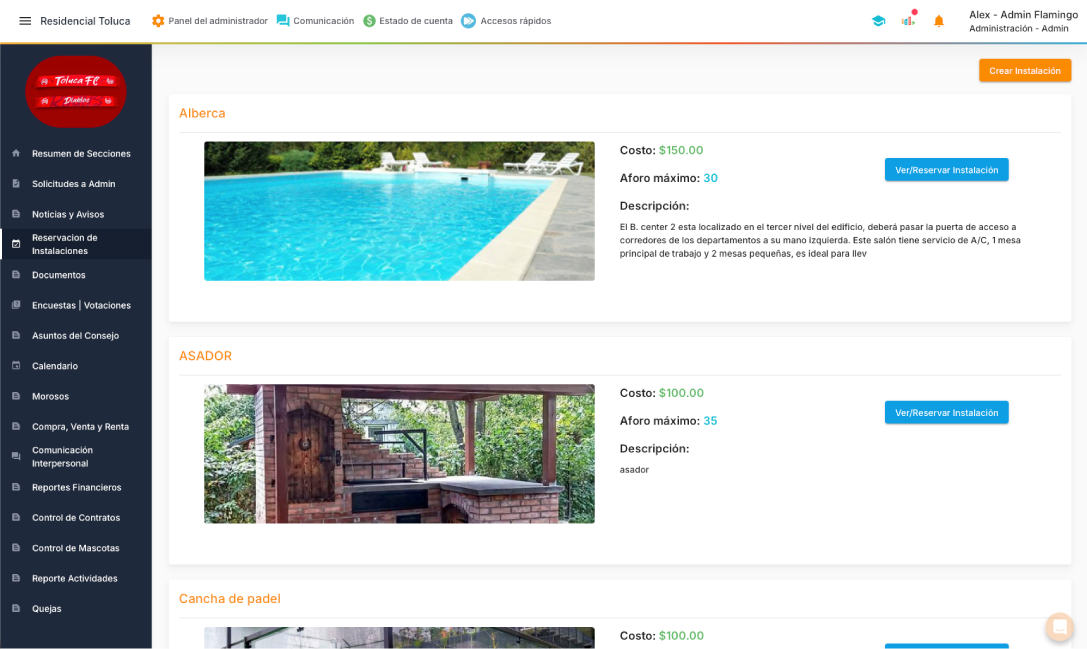
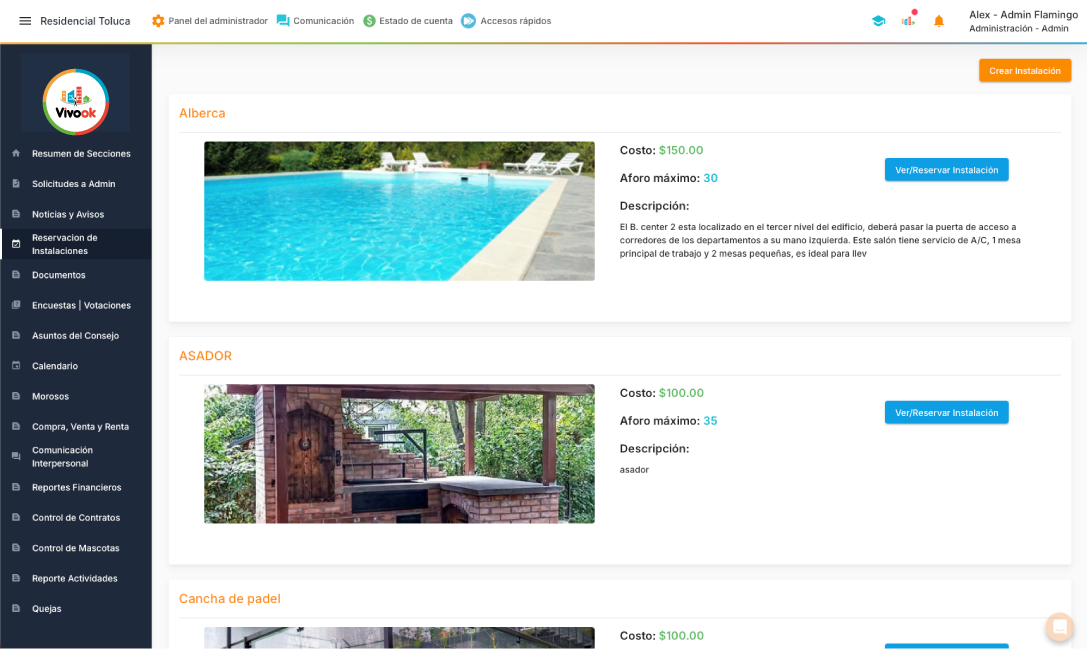
Home hero: nueva imagen index-hero.png sin frame, plana y más grande
- index.html: la imagen del hero ahora es index-hero.png (laptop + mobile
  juntos) y ya no va dentro del browser-frame.
- styles.css: .hero__mockup crece (54% / 720px máx vs 46% / 560px) y
  .hero__mockup-img queda plana — sin tilt 3D, sin sombra, sin radius.
- Asset intalaciones-hero.png re-exportado (cambio menor de tamaño).
- Cache busting v=102 → v=104.

Changed region(s): [[0.0, 0.0616, 0.1214, 0.2157]]

diff --git a/index.html b/index.html
@@ -8,7 +8,7 @@
   <link rel="preconnect" href="https://fonts.googleapis.com" />
   <link rel="preconnect" href="https://fonts.gstatic.com" crossorigin />
   <link href="https://fonts.googleapis.com/css2?family=Inter:wght@400;500;600;700&family=Manrope:wght@600;700;800&display=swap" rel="stylesheet" />
-  <link rel="stylesheet" href="styles.css?v=102" />
+  <link rel="stylesheet" href="styles.css?v=104" />
   <link rel="canonical" href="https://www.vivook.com/" />
   <meta property="og:url" content="https://www.vivook.com/" />
   <meta property="og:type" content="website" />
@@ -169,17 +169,9 @@
       </div>
     </div>
 
-    <!-- Mockup del producto -->
+    <!-- Mockup del producto (imagen sin frame) -->
     <div class="hero__mockup" aria-hidden="true">
-      <div class="browser-frame">
-        <div class="browser-frame__bar">
-          <span class="browser-frame__dots"><span></span><span></span><span></span></span>
-          <span class="browser-frame__url">webapp.vivook.com</span>
-        </div>
-        <div class="browser-frame__body">
-          <img src="assets/consolidado-hero.png" alt="" width="1200" height="663" />
-        </div>
-      </div>
+      <img src="assets/index-hero.png" alt="" width="1530" height="812" class="hero__mockup-img" />
     </div>
     </div>
   </section>
@@ -778,7 +770,7 @@
     <svg class="sticky-cta__icon" aria-hidden="true"><use href="assets/icons.svg#buildings"/></svg>
   </a>
 
-  <script src="script.js?v=102" defer></script>
+  <script src="script.js?v=104" defer></script>
   <!-- Boton flotante de WhatsApp -->
   <a href="https://wa.me/message/7OT53LROGZRCI1" class="wa-float" target="_blank" rel="noopener" aria-label="Chatea con nosotros por WhatsApp">
     <svg class="wa-float__icon" aria-hidden="true"><use href="assets/icons.svg#whatsapp"/></svg>

diff --git a/styles.css b/styles.css
@@ -358,20 +358,15 @@ button { font: inherit; cursor: pointer; }
   right: 0;
   top: 50%;
   transform: translateY(-50%);
-  width: 46%;
-  max-width: 560px;
+  width: 54%;
+  max-width: 720px;
   z-index: 2;
   pointer-events: none;
 }
 .hero__mockup-img {
   width: 100%;
   height: auto;
-  border-radius: 14px;
-  box-shadow:
-    0 40px 100px -16px rgba(0, 0, 0, .65),
-    0 0 0 1px rgba(255, 255, 255, .06);
-  transform: perspective(1600px) rotateY(-12deg) rotateX(3deg);
-  transform-origin: center;
+  display: block;
 }
 .hero__mockup-badge {
   position: absolute;

diff --git a/academia.html b/academia.html
@@ -11,7 +11,7 @@
   <link rel="preconnect" href="https://fonts.googleapis.com" />
   <link rel="preconnect" href="https://fonts.gstatic.com" crossorigin />
   <link href="https://fonts.googleapis.com/css2?family=Inter:wght@400;500;600;700&family=Manrope:wght@600;700;800&display=swap" rel="stylesheet" />
-  <link rel="stylesheet" href="styles.css?v=102" />
+  <link rel="stylesheet" href="styles.css?v=104" />
   <link rel="canonical" href="https://www.vivook.com/academia.html" />
   <meta property="og:url" content="https://www.vivook.com/academia.html" />
   <meta property="og:site_name" content="Vivook" />
@@ -473,7 +473,7 @@
     <svg class="sticky-cta__icon" aria-hidden="true"><use href="assets/icons.svg#buildings"/></svg>
   </a>
 
-  <script src="script.js?v=102" defer></script>
+  <script src="script.js?v=104" defer></script>
   <!-- Boton flotante de WhatsApp -->
   <a href="https://wa.me/message/7OT53LROGZRCI1" class="wa-float" target="_blank" rel="noopener" aria-label="Chatea con nosotros por WhatsApp">
     <svg class="wa-float__icon" aria-hidden="true"><use href="assets/icons.svg#whatsapp"/></svg>

diff --git a/administrativo.html b/administrativo.html
@@ -11,7 +11,7 @@
   <link rel="preconnect" href="https://fonts.googleapis.com" />
   <link rel="preconnect" href="https://fonts.gstatic.com" crossorigin />
   <link href="https://fonts.googleapis.com/css2?family=Inter:wght@400;500;600;700&family=Manrope:wght@600;700;800&display=swap" rel="stylesheet" />
-  <link rel="stylesheet" href="styles.css?v=102" />
+  <link rel="stylesheet" href="styles.css?v=104" />
   <link rel="canonical" href="https://www.vivook.com/administrativo.html" />
   <meta property="og:url" content="https://www.vivook.com/administrativo.html" />
   <meta property="og:site_name" content="Vivook" />
@@ -435,7 +435,7 @@
     <svg class="sticky-cta__icon" aria-hidden="true"><use href="assets/icons.svg#buildings"/></svg>
   </a>
 
-  <script src="script.js?v=102" defer></script>
+  <script src="script.js?v=104" defer></script>
   <!-- Boton flotante de WhatsApp -->
   <a href="https://wa.me/message/7OT53LROGZRCI1" class="wa-float" target="_blank" rel="noopener" aria-label="Chatea con nosotros por WhatsApp">
     <svg class="wa-float__icon" aria-hidden="true"><use href="assets/icons.svg#whatsapp"/></svg>

diff --git a/capacitaciones.html b/capacitaciones.html
@@ -11,7 +11,7 @@
   <link rel="preconnect" href="https://fonts.googleapis.com" />
   <link rel="preconnect" href="https://fonts.gstatic.com" crossorigin />
   <link href="https://fonts.googleapis.com/css2?family=Inter:wght@400;500;600;700&family=Manrope:wght@600;700;800&display=swap" rel="stylesheet" />
-  <link rel="stylesheet" href="styles.css?v=102" />
+  <link rel="stylesheet" href="styles.css?v=104" />
   <link rel="canonical" href="https://www.vivook.com/capacitaciones.html" />
   <meta property="og:url" content="https://www.vivook.com/capacitaciones.html" />
   <meta property="og:site_name" content="Vivook" />
@@ -371,7 +371,7 @@
     <svg class="sticky-cta__icon" aria-hidden="true"><use href="assets/icons.svg#buildings"/></svg>
   </a>
 
-  <script src="script.js?v=102" defer></script>
+  <script src="script.js?v=104" defer></script>
   <!-- Boton flotante de WhatsApp -->
   <a href="https://wa.me/message/7OT53LROGZRCI1" class="wa-float" target="_blank" rel="noopener" aria-label="Chatea con nosotros por WhatsApp">
     <svg class="wa-float__icon" aria-hidden="true"><use href="assets/icons.svg#whatsapp"/></svg>

diff --git a/caracteristicas.html b/caracteristicas.html
@@ -11,7 +11,7 @@
   <link rel="preconnect" href="https://fonts.googleapis.com" />
   <link rel="preconnect" href="https://fonts.gstatic.com" crossorigin />
   <link href="https://fonts.googleapis.com/css2?family=Inter:wght@400;500;600;700&family=Manrope:wght@600;700;800&display=swap" rel="stylesheet" />
-  <link rel="stylesheet" href="styles.css?v=102" />
+  <link rel="stylesheet" href="styles.css?v=104" />
   <link rel="canonical" href="https://www.vivook.com/caracteristicas.html" />
   <meta property="og:url" content="https://www.vivook.com/caracteristicas.html" />
   <meta property="og:site_name" content="Vivook" />
@@ -397,7 +397,7 @@
     <svg class="sticky-cta__icon" aria-hidden="true"><use href="assets/icons.svg#buildings"/></svg>
   </a>
 
-  <script src="script.js?v=102" defer></script>
+  <script src="script.js?v=104" defer></script>
   <!-- Boton flotante de WhatsApp -->
   <a href="https://wa.me/message/7OT53LROGZRCI1" class="wa-float" target="_blank" rel="noopener" aria-label="Chatea con nosotros por WhatsApp">
     <svg class="wa-float__icon" aria-hidden="true"><use href="assets/icons.svg#whatsapp"/></svg>

diff --git a/comunicacion.html b/comunicacion.html
@@ -11,7 +11,7 @@
   <link rel="preconnect" href="https://fonts.googleapis.com" />
   <link rel="preconnect" href="https://fonts.gstatic.com" crossorigin />
   <link href="https://fonts.googleapis.com/css2?family=Inter:wght@400;500;600;700&family=Manrope:wght@600;700;800&display=swap" rel="stylesheet" />
-  <link rel="stylesheet" href="styles.css?v=102" />
+  <link rel="stylesheet" href="styles.css?v=104" />
   <link rel="canonical" href="https://www.vivook.com/comunicacion.html" />
   <meta property="og:url" content="https://www.vivook.com/comunicacion.html" />
   <meta property="og:site_name" content="Vivook" />
@@ -409,7 +409,7 @@
     <svg class="sticky-cta__icon" aria-hidden="true"><use href="assets/icons.svg#buildings"/></svg>
   </a>
 
-  <script src="script.js?v=102" defer></script>
+  <script src="script.js?v=104" defer></script>
   <!-- Boton flotante de WhatsApp -->
   <a href="https://wa.me/message/7OT53LROGZRCI1" class="wa-float" target="_blank" rel="noopener" aria-label="Chatea con nosotros por WhatsApp">
     <svg class="wa-float__icon" aria-hidden="true"><use href="assets/icons.svg#whatsapp"/></svg>

diff --git a/contacto.html b/contacto.html
@@ -11,7 +11,7 @@
   <link rel="preconnect" href="https://fonts.googleapis.com" />
   <link rel="preconnect" href="https://fonts.gstatic.com" crossorigin />
   <link href="https://fonts.googleapis.com/css2?family=Inter:wght@400;500;600;700&family=Manrope:wght@600;700;800&display=swap" rel="stylesheet" />
-  <link rel="stylesheet" href="styles.css?v=102" />
+  <link rel="stylesheet" href="styles.css?v=104" />
   <link rel="canonical" href="https://www.vivook.com/contacto.html" />
   <meta property="og:url" content="https://www.vivook.com/contacto.html" />
   <meta property="og:site_name" content="Vivook" />
@@ -321,7 +321,7 @@
     <svg class="sticky-cta__icon" aria-hidden="true"><use href="assets/icons.svg#buildings"/></svg>
   </a>
 
-  <script src="script.js?v=102" defer></script>
+  <script src="script.js?v=104" defer></script>
   <!-- Boton flotante de WhatsApp -->
   <a href="https://wa.me/message/7OT53LROGZRCI1" class="wa-float" target="_blank" rel="noopener" aria-label="Chatea con nosotros por WhatsApp">
     <svg class="wa-float__icon" aria-hidden="true"><use href="assets/icons.svg#whatsapp"/></svg>

diff --git a/diferenciador.html b/diferenciador.html
@@ -11,7 +11,7 @@
   <link rel="preconnect" href="https://fonts.googleapis.com" />
   <link rel="preconnect" href="https://fonts.gstatic.com" crossorigin />
   <link href="https://fonts.googleapis.com/css2?family=Inter:wght@400;500;600;700&family=Manrope:wght@600;700;800&display=swap" rel="stylesheet" />
-  <link rel="stylesheet" href="styles.css?v=102" />
+  <link rel="stylesheet" href="styles.css?v=104" />
   <link rel="canonical" href="https://www.vivook.com/diferenciador.html" />
   <meta property="og:url" content="https://www.vivook.com/diferenciador.html" />
   <meta property="og:site_name" content="Vivook" />
@@ -538,7 +538,7 @@
     <svg class="sticky-cta__icon" aria-hidden="true"><use href="assets/icons.svg#buildings"/></svg>
   </a>
 
-  <script src="script.js?v=102" defer></script>
+  <script src="script.js?v=104" defer></script>
   <!-- Boton flotante de WhatsApp -->
   <a href="https://wa.me/message/7OT53LROGZRCI1" class="wa-float" target="_blank" rel="noopener" aria-label="Chatea con nosotros por WhatsApp">
     <svg class="wa-float__icon" aria-hidden="true"><use href="assets/icons.svg#whatsapp"/></svg>

diff --git a/facturacion.html b/facturacion.html
@@ -11,7 +11,7 @@
   <link rel="preconnect" href="https://fonts.googleapis.com" />
   <link rel="preconnect" href="https://fonts.gstatic.com" crossorigin />
   <link href="https://fonts.googleapis.com/css2?family=Inter:wght@400;500;600;700&family=Manrope:wght@600;700;800&display=swap" rel="stylesheet" />
-  <link rel="stylesheet" href="styles.css?v=102" />
+  <link rel="stylesheet" href="styles.css?v=104" />
   <link rel="canonical" href="https://www.vivook.com/facturacion.html" />
   <meta property="og:url" content="https://www.vivook.com/facturacion.html" />
   <meta property="og:site_name" content="Vivook" />
@@ -446,7 +446,7 @@
     <svg class="sticky-cta__icon" aria-hidden="true"><use href="assets/icons.svg#buildings"/></svg>
   </a>
 
-  <script src="script.js?v=102" defer></script>
+  <script src="script.js?v=104" defer></script>
   <!-- Boton flotante de WhatsApp -->
   <a href="https://wa.me/message/7OT53LROGZRCI1" class="wa-float" target="_blank" rel="noopener" aria-label="Chatea con nosotros por WhatsApp">
     <svg class="wa-float__icon" aria-hidden="true"><use href="assets/icons.svg#whatsapp"/></svg>

diff --git a/landing.html b/landing.html
@@ -8,7 +8,7 @@
   <link rel="preconnect" href="https://fonts.googleapis.com" />
   <link rel="preconnect" href="https://fonts.gstatic.com" crossorigin />
   <link href="https://fonts.googleapis.com/css2?family=Inter:wght@400;500;600;700&family=Manrope:wght@600;700;800&display=swap" rel="stylesheet" />
-  <link rel="stylesheet" href="styles.css?v=102" />
+  <link rel="stylesheet" href="styles.css?v=104" />
   <link rel="canonical" href="https://www.vivook.com/landing.html" />
   <meta property="og:url" content="https://www.vivook.com/landing.html" />
   <meta property="og:type" content="website" />
@@ -582,7 +582,7 @@
     <svg class="sticky-cta__icon" aria-hidden="true"><use href="assets/icons.svg#buildings"/></svg>
   </a>
 
-  <script src="script.js?v=102" defer></script>
+  <script src="script.js?v=104" defer></script>
   <!-- Boton flotante de WhatsApp -->
   <a href="https://wa.me/message/7OT53LROGZRCI1" class="wa-float" target="_blank" rel="noopener" aria-label="Chatea con nosotros por WhatsApp">
     <svg class="wa-float__icon" aria-hidden="true"><use href="assets/icons.svg#whatsapp"/></svg>

diff --git a/pagos.html b/pagos.html
@@ -11,7 +11,7 @@
   <link rel="preconnect" href="https://fonts.googleapis.com" />
   <link rel="preconnect" href="https://fonts.gstatic.com" crossorigin />
   <link href="https://fonts.googleapis.com/css2?family=Inter:wght@400;500;600;700&family=Manrope:wght@600;700;800&display=swap" rel="stylesheet" />
-  <link rel="stylesheet" href="styles.css?v=102" />
+  <link rel="stylesheet" href="styles.css?v=104" />
   <link rel="canonical" href="https://www.vivook.com/pagos.html" />
   <meta property="og:url" content="https://www.vivook.com/pagos.html" />
   <meta property="og:site_name" content="Vivook" />
@@ -431,7 +431,7 @@
     <svg class="sticky-cta__icon" aria-hidden="true"><use href="assets/icons.svg#buildings"/></svg>
   </a>
 
-  <script src="script.js?v=102" defer></script>
+  <script src="script.js?v=104" defer></script>
   <!-- Boton flotante de WhatsApp -->
   <a href="https://wa.me/message/7OT53LROGZRCI1" class="wa-float" target="_blank" rel="noopener" aria-label="Chatea con nosotros por WhatsApp">
     <svg class="wa-float__icon" aria-hidden="true"><use href="assets/icons.svg#whatsapp"/></svg>